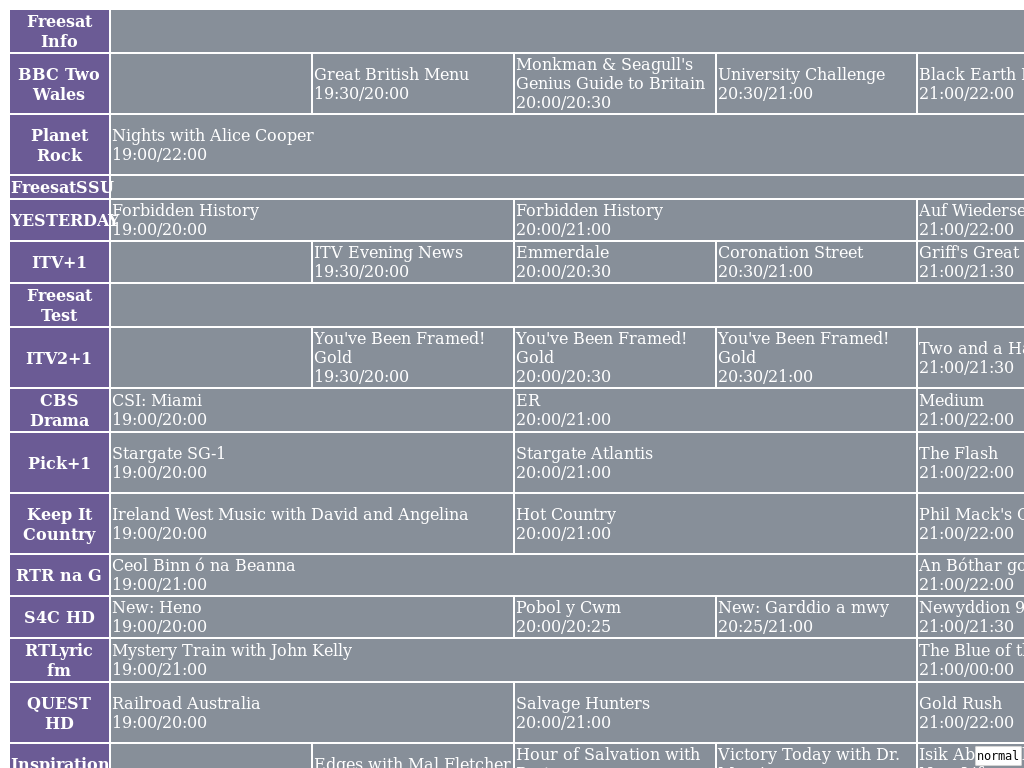
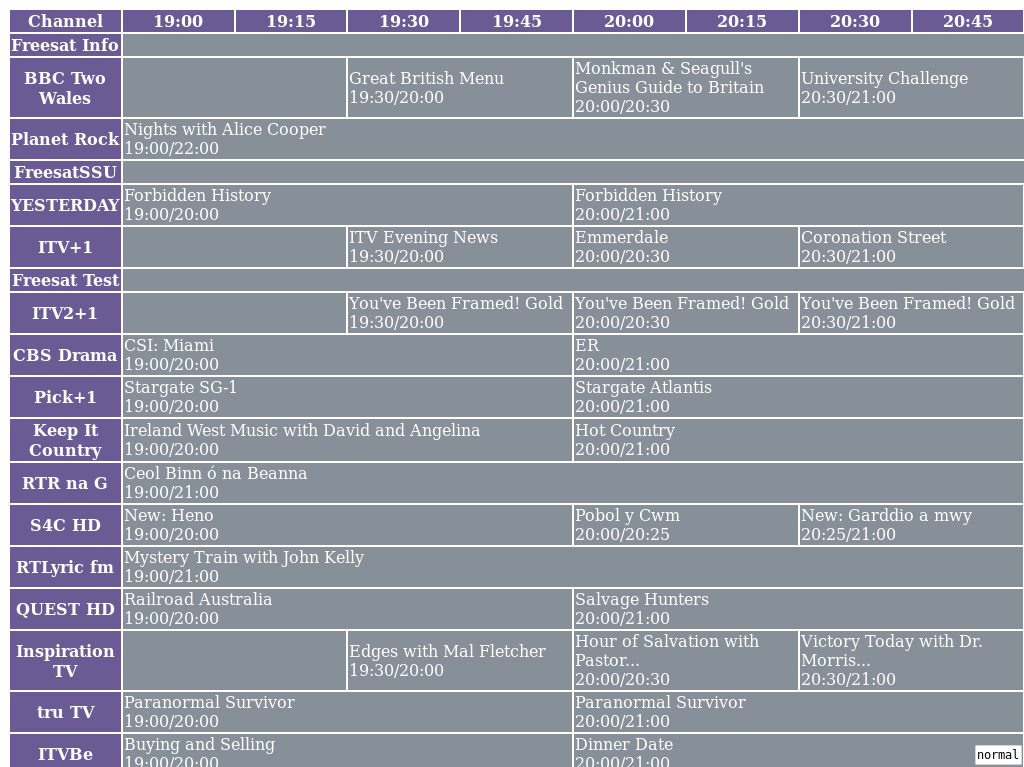
Add time display at the top

Changed region(s): [[0.0, 0.0, 1.0, 1.0]]

diff --git a/scripts/epg.js b/scripts/epg.js
@@ -11,7 +11,10 @@ var mixin = {
         },
         durationInQuants: function(seconds) {
             return Math.round(seconds/60/15);
-        }
+        },
+        durationInSeconds: function(quants) {
+            return quants*15*60;
+        },
     }
 }
 
@@ -125,6 +128,15 @@ Vue.component("epg", {
             channels: [],
         }
     },
+    methods: {
+        quantToTime(startTime, i) {
+            var currentTime = parseInt(startTime) + this.durationInSeconds(i);
+
+            dateTime = new Date(currentTime * 1000);
+
+            return this.formatTime(dateTime);
+        }
+    },
     mounted() {
         axios
           .get("/api/channel/grid")
@@ -132,8 +144,14 @@ Vue.component("epg", {
     },
     template: `
         <table>
-            <channel v-for="channel in channels" :key="channel.uuid" :channel="channel" :startTime="startTime" :endTime="endTime">
-            </channel>
+            <thead>
+                <th>Channel</th>
+                <th v-for="i in durationInQuants(endTime - startTime)">{{ quantToTime(startTime, i-1) }}</th>
+            </thead>
+            <tbody>
+                <channel v-for="channel in channels" :key="channel.uuid" :channel="channel" :startTime="startTime" :endTime="endTime">
+                </channel>
+            </tbody>
         </table>
     `
 })

diff --git a/index.html b/index.html
@@ -9,7 +9,7 @@
     </head>
     <body>
         <div id="epg">
-            <epg start-time="1537812000" end-time="1537828200"></epg>
+            <epg start-time="1537812000" end-time="1537826400"></epg>
         </div>
         <script src="scripts/epg.js"></script>
     </body>
